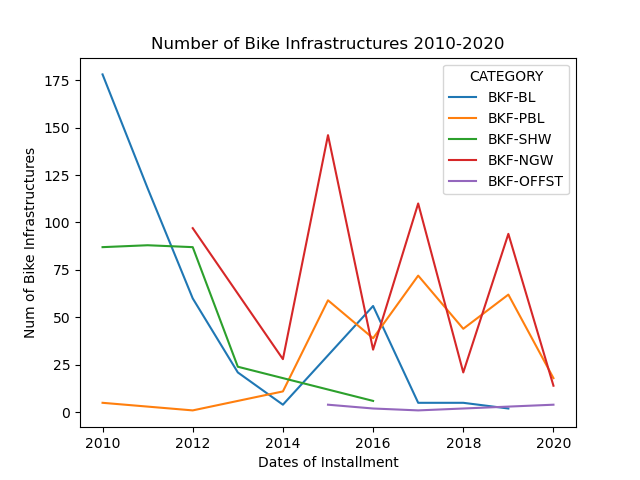
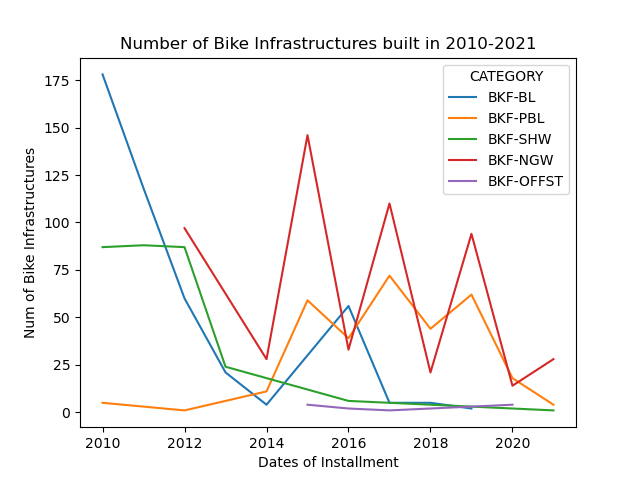
line + graph done + analysis

diff --git a/newAnalysis.py b/newAnalysis.py
@@ -1,7 +1,6 @@
 import pandas as pd
 import geopandas as gpd
 import seaborn as sns
-# from scipy.interpolate import make_interp_spline
 import matplotlib.pyplot as plt
 
 
@@ -17,46 +16,56 @@ def main():
     df['NUM'] = count
     df = df[['CATEGORY', 'PRIMARYDISTRICTCD', 'NUM', 'UNITDESC',
              'SECONDARYDISTRICTCD', 'SHAPE_Length']]
-
-    # use groupby to keep track of the number of bike infrastructures
     year = df.groupby([df.index.year, 'CATEGORY']).sum()
-    year = year.loc[2010.0: 2020.0]
-    sns.lineplot(data=year, x='INSTALL_DATE', y='NUM', hue='CATEGORY')
+    year = year.loc[2010.0: 2021.0]
 
-# make plot line smoother (need to uncomment scipy.interpolate)
-    # line_plot = make_interp_spline('INSTALL_DATE', 'NUM')
-    # num_plot = line_plot(install_plot)
-    # plt.plot(install_plot, num_plot)
+    sns.lineplot(data=year, x='INSTALL_DATE', y='NUM', hue='CATEGORY')
 
     plt.xlabel('Dates of Installment')
     plt.ylabel('Num of Bike Infrastructures')
-    plt.title('Number of Bike Infrastructures 2010-2020')
-    # plt.show()
+    plt.title('Number of Bike Infrastructures built in 2010-2021')
     plt.savefig('bike_infrastructures_plot.png')
 
     # map the bike infractures
 
-    planned_file = gpd.read_file('Data/Planned_Bike_Facilities/Planned_Bike_Facilities.shp')
-    print(planned_file.columns)
-    # planned_file.plot()
+    planned_file = gpd.read_file(
+        'Data/existing_bike_facilities/Existing_Bike_Facilities.shp')
 
     fig, [[ax1, ax2], [ax3, ax4]] = plt.subplots(2, 2, figsize=(20, 10))
-    map_2010 = planned_file.loc[2010.0]
-    map_2010.plot(column='Category', legend=True, ax=ax1)
-    ax1.set_title('2010 infrastructures')
 
-    map_2012 = planned_file.loc[2012.0]
-    map_2012.plot(column='Category', legend=True, ax=ax2)
-    ax2.set_title('2012 infrastructures')
+    # plot 2010
+    data_2010 = planned_file[planned_file['INSTALL_DA'] == '2010-12-31']
+    planned_file.plot(color='#EEEEEE', ax=ax1)
+    data_2010.plot(column='CATEGORY', legend=True, ax=ax1)
+    ax1.set_title('Bike Infrastructures built in 2010')
 
-    map_2014 = planned_file.loc[2014.0]
-    map_2014.plot(column='Category', legend=True, ax=ax3)
-    ax3.set_title('2014 infrastructures')
+    # plot 2014
+    data_2014 = planned_file[planned_file['INSTALL_DA'] == '2014-12-31']
+    data_2014 = planned_file[planned_file['INSTALL_DA'] == '2013-12-31']
+    data_2014 = planned_file[planned_file['INSTALL_DA'] == '2012-12-31']
+    planned_file.plot(color='#EEEEEE', ax=ax2)
+    data_2014.plot(column='CATEGORY', legend=True, ax=ax2)
+    ax2.set_title('Bike Infrastructures built in 2012-2014')
 
-    map_2020 = planned_file.loc[2020.0]
-    map_2020.plot(column='Category', legend=True, ax=ax4)
-    ax4.set_title('2020 infrastructures')
-    plt.savefig('bike_infrastructures_map.png')
+    # plot 2018
+    data_2018 = planned_file[planned_file['INSTALL_DA'] == '2018-12-31']
+    data_2018 = planned_file[planned_file['INSTALL_DA'] == '2017-12-31']
+    data_2018 = planned_file[planned_file['INSTALL_DA'] == '2016-12-31']
+    data_2018 = planned_file[planned_file['INSTALL_DA'] == '2015-12-31']
+    planned_file.plot(color='#EEEEEE', ax=ax3)
+    data_2018.plot(column='CATEGORY', legend=True, ax=ax3)
+    ax3.set_title('Bike Infrastructures built in 2015-2018')
+
+    # plot 2021
+    data_2021 = planned_file[planned_file['INSTALL_DA'] == '2021-12-31']
+    data_2021 = planned_file[planned_file['INSTALL_DA'] == '2020-12-31']
+    data_2021 = planned_file[planned_file['INSTALL_DA'] == '2019-12-31']
+    data_2021 = planned_file[planned_file['INSTALL_DA'] == '2018-12-31']
+    planned_file.plot(color='#EEEEEE', ax=ax4)
+    data_2021.plot(column='CATEGORY', legend=True, ax=ax4)
+    ax4.set_title('Bike Infrastructures built in 2018-2021')
+
+    # plt.savefig('bike_infrastructures_map.png')
 
 
 if __name__ == "__main__":

diff --git a/README.md b/README.md
@@ -6,3 +6,18 @@ CSE 163 FINAL:
 - Anything else we need to know about running your project!
 
 Must be DETAILED enough that your mentor can run your code.
+
+newAnalysis.py:
+
+about the line graph:
+This file contains all of the code from Exisiting_Bike_Facilities to make a line plot that shows the num of bike infrastructures built between 2010-2021. These years are choosen because it has data from the pass 10 years and it would be realiable to use years that are recent in order to get a accurate and percise graph. The line plot has a legend on the top right hand corner to allow the user to understand the different bike infrastructures and the lines that being graphed. The plot is graphed in an up and down line because it represents the number of bike infrastructures built during the year, the line going down means that there was little or no bike infrastructures being built. While the line going up means that there was more bike infrastructures being built. We tried to sum the number of bike infrastructures being built through the years of 2010-2021, but we ran into a problem of not being able to work with the dataset since it contains data that has no ability to groupby the number of bike infrastructures and sum it. This is a messy dataset that required filter and new columns to be added. We felt that the line going up and down shows a more accurate visualization of the number of bike infrastructures building progress.
+
+about the line graph code:
+To produce the line graph, we first read in the csv file using pandas and parsing the csv by the INSTALL_DATE. The INSTALL_DATE is when the bike infrastructure was first built. We then made another column to keep track of the number of the different bike infrastructures in the years, that we can use the number later to produce the number of bike infrastructures being built between 2010-2021. Once we have a new column made for the number of bike infrastructures, we use groupby to sum the number of bike infrastructures. After we filter the dataframe based on the years that we want 2010-2021. Finally we plot the graph based on the INSTALL_DATE and NUM (the number of bike infrastructures), and categorize it based on CATEGORY (different bike infrastructures). The line plot is saved in a file called bike_infrastructures_plot.
+
+about the map:
+
+The second part of the file contains code to map the different bike infrastructures being built through the pass 2 years between 2010-2021. We did the pass 2 years because the results of the pass 4 years show the same bike infrastructures from the pass and there isn't any differences. When we did between 2012-2014, there is quite a few different bike infrastructures being built during these time, when we try to compare it from 2011-2014, the bike infrastructures is similar to 2010. This tells us that there wasn't any changed in the number of bike infrastructures. This goes for the same between 2015-2018 and 2019-2021, these graphs represent the number of bike infrastructures built between these times.
+
+about the map code:
+For the map code we use data from the Planned_Bike_Facilities, then the Existing_Bike_Facilities dataset because the Planned_Bike_Facilities allows us to create graphs with it's .shp file. Also the Planned_Bike_Facilities are data from the supported development of short and long term use bike infrastructures in the Great Seattle Area. We firsted read in the file using geopandas.readfile(). We plotted the dataframe without filtering to use as a based for plotting the different bike infrastructures throughout the year. This is a method that is similar to A5, where we colored the WA_data grey that we can fill in the rest of the states. For each year, we filter the column INSTALL_DA by the date of the year that we wanted. INSTALL_DA is the data where the bike infrastructure was first built. For the plots where we wanted to filter it between 2012-2014, we manual have to set the dataframe == to the year that we wanted. This is because we ran into a problem where the dates are strings. After we a plot all of the graphs onto one file to allow the user to get an overview of the different bike infrastructures being throughout the years.
